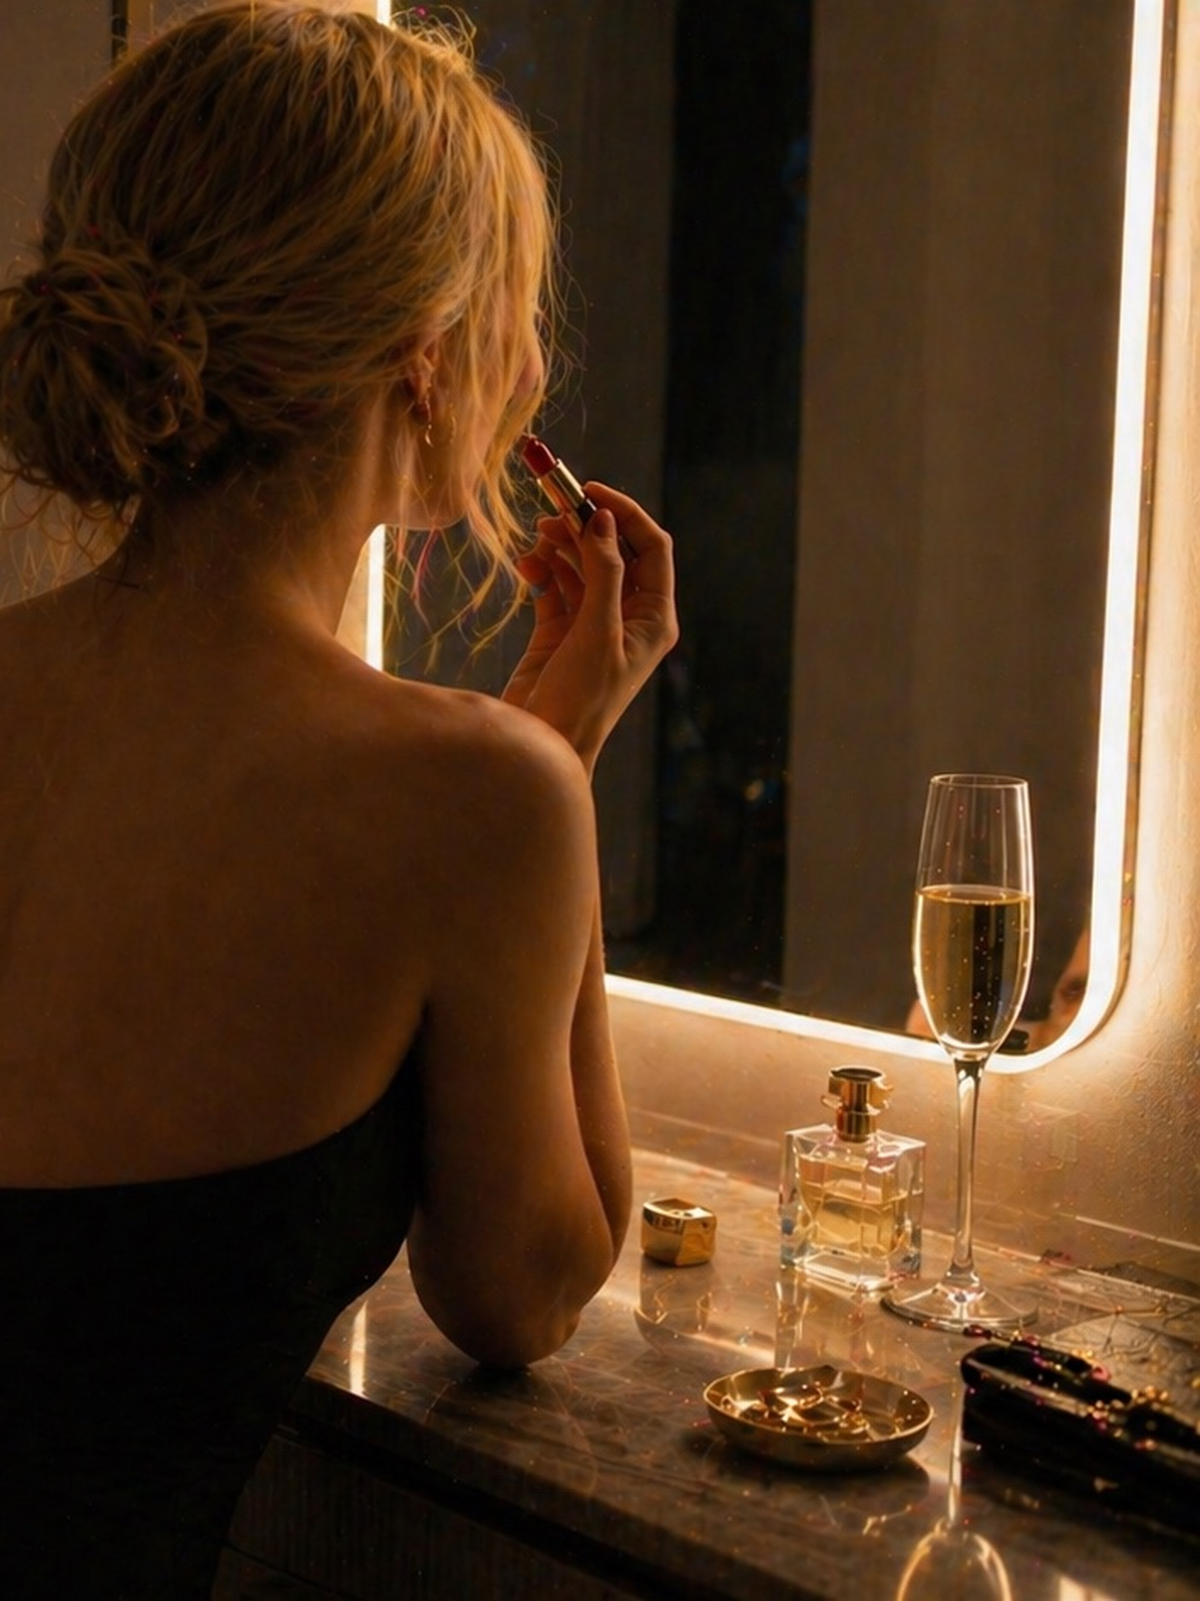
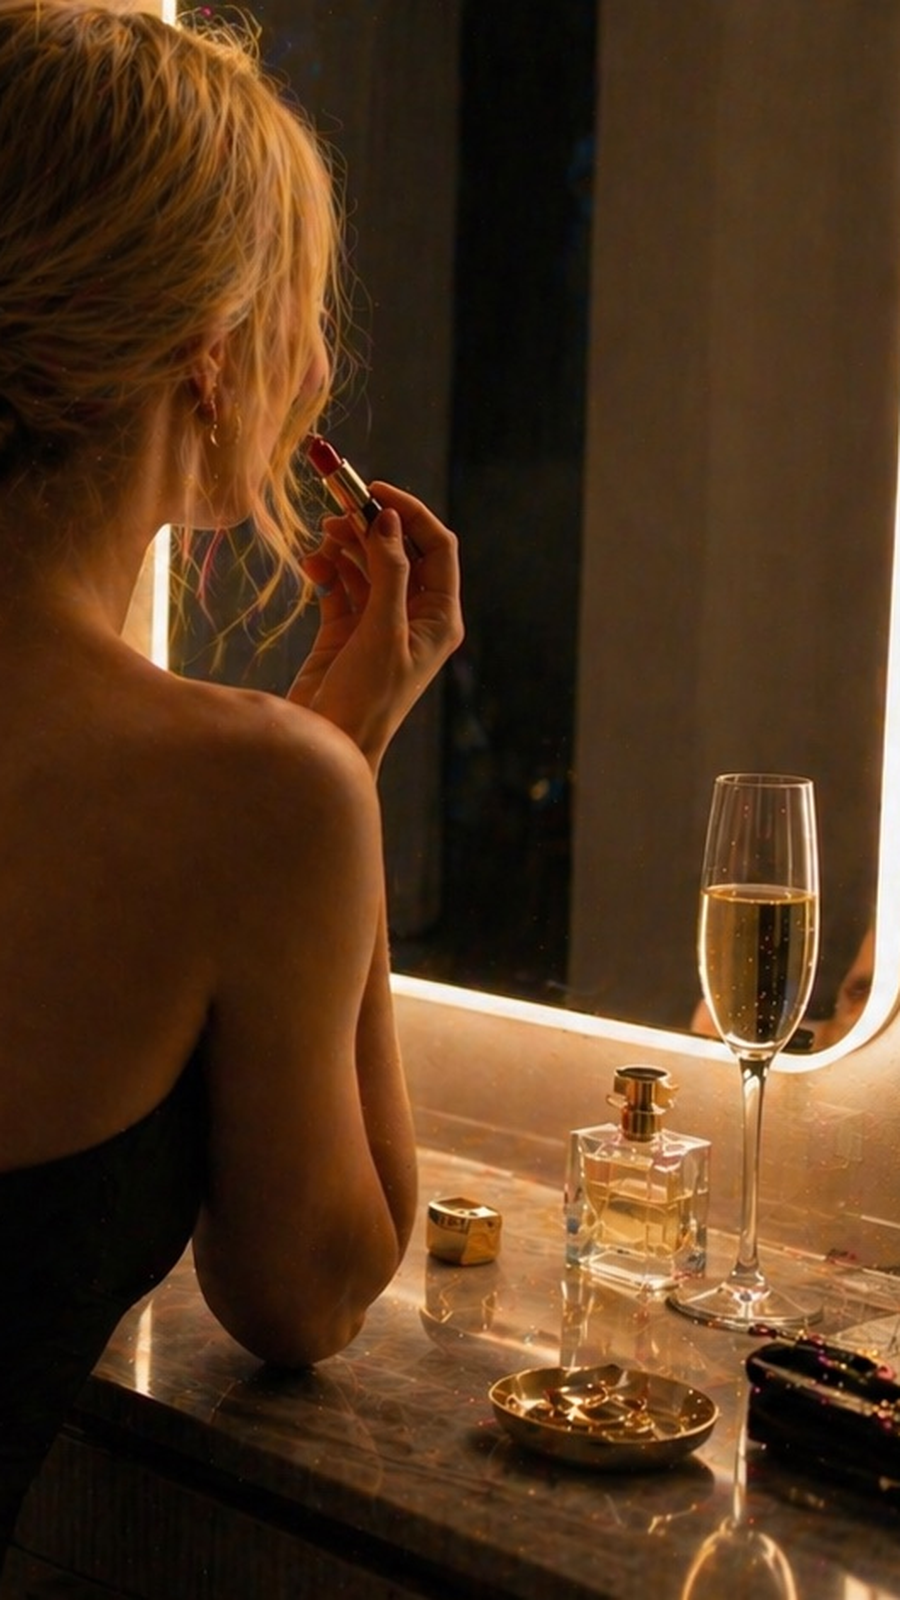
Add files via upload

diff --git a/index.html b/index.html
@@ -321,14 +321,25 @@
 
   .ui-snippet--tall,
   .ui-snippet--wide {
-    max-width: 90%;
-    max-height: 100%;
+    max-width: 88%;
+    max-height: 88%;
     width: auto;
     height: auto;
     object-fit: contain;
     transform: rotate(-2deg);
     position: relative;
     z-index: 2;
+  }
+
+  /* Tall snippets get more height room since they're vertical */
+  .ui-snippet--tall {
+    height: 100%;
+    max-height: 95%;
+  }
+
+  /* Wide/square snippets stay constrained by width to balance with tall ones */
+  .ui-snippet--wide {
+    max-width: 75%;
   }
 
   .ui-snippet--tall.right,